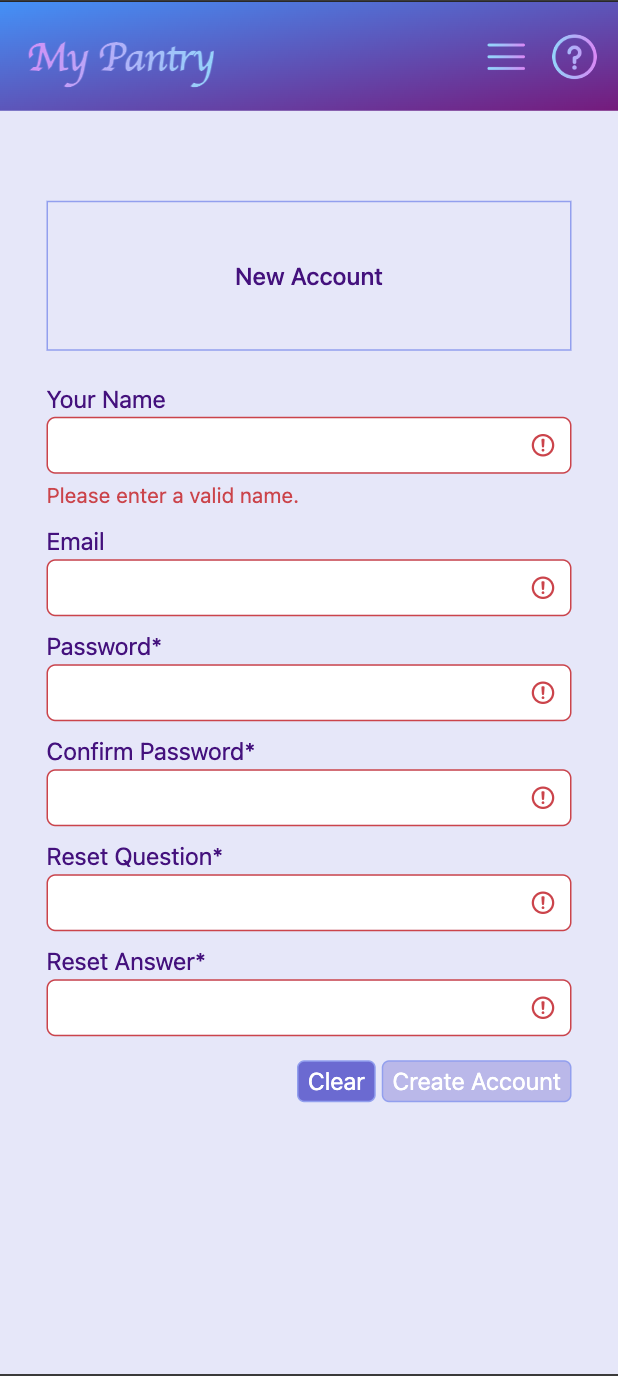
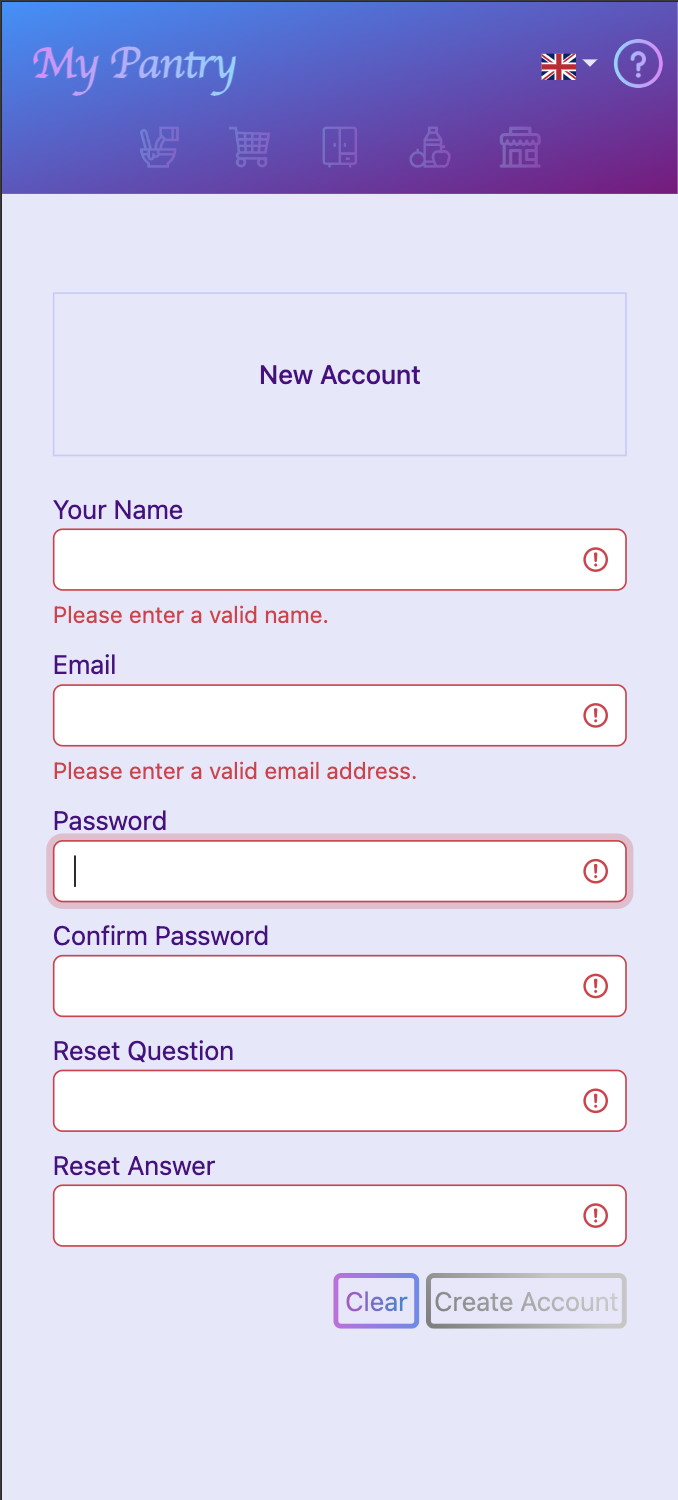
feature: README.md

diff --git a/README.md b/README.md
@@ -2,14 +2,15 @@
 
 # My Pantry
 
-version: 0.2.0
+version: 0.3.0
 
 - Internationalization (Backend messages)
+- New Layout using Cards
+- Enter Ideal and Current quantity when adding new product direct to the pantry items list
 
 Plans for next versions:
 
 - Delete provisioned products from the shopping cart
-- Enter Ideal and Current quantity when adding new product direct to the pantry items list
 - Wizard to create pantries based on a suggested list of basic items, instead of manually enter them.
 - Dashboard
 - CRUD for Role and Permissions
@@ -57,6 +58,7 @@ Screenshots: <br />
 <img height="400" width="200" title="Login" src="./readme_images/reset-password.png"/>
 <img height="400" width="200" src="./readme_images/pantries.png"/>
 <img height="400" width="200" src="./readme_images/pantry.png"/>
+<img height="400" width="200" src="./readme_images/pantry-items.png"/>
 <img height="400" width="200" src="./readme_images/consume.png"/>
 <img height="400" width="200" src="./readme_images/purchase.png"/>
 <img height="400" width="200" src="./readme_images/products.png"/>
